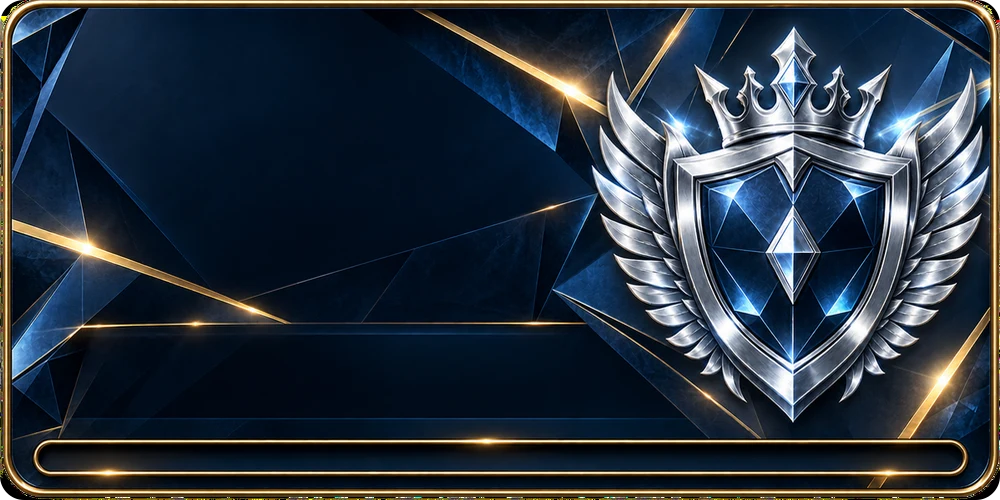
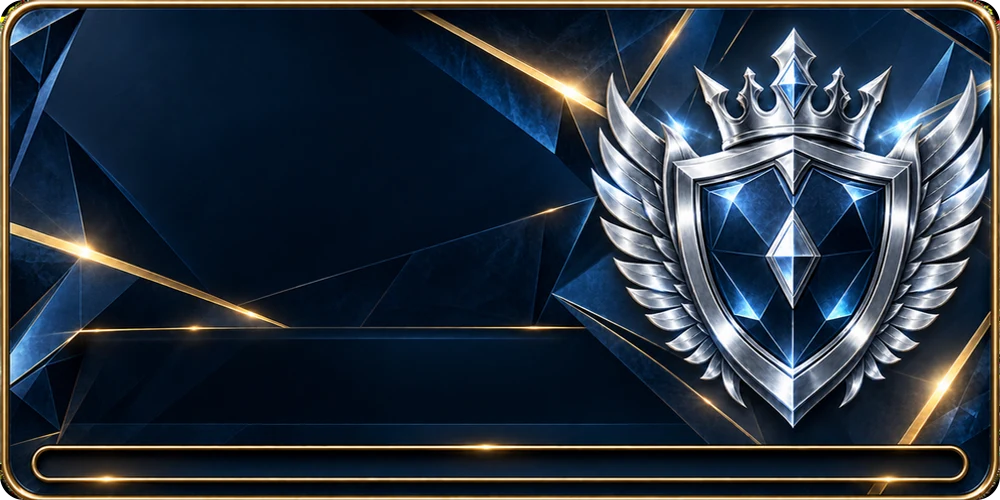
VIP carousel: stable memoised card component + image preload (no flicker on fast switching); re-fit art crops

diff --git a/app/zh-my/vip/page.tsx b/app/zh-my/vip/page.tsx
@@ -1,5 +1,5 @@
 "use client";
-import { useState } from "react";
+import { memo, useEffect, useState } from "react";
 import { Crown, ChevronLeft, ChevronRight, Wallet, TrendingUp, Gem, ArrowDownUp, Banknote, Percent, Sparkles } from "lucide-react";
 import { VIP_LEVELS } from "@/lib/mock/vip";
 import { Seg } from "@/components/ui/bo";
@@ -36,31 +36,32 @@ function HeaderDeco({ children }: { children: React.ReactNode }) {
   );
 }
 
+const LevelCard = memo(function LevelCard({ i, big }: { i: number; big?: boolean }) {
+  const l = VIP_LEVELS[(i + VIP_LEVELS.length) % VIP_LEVELS.length];
+  const n = ((i % VIP_LEVELS.length) + VIP_LEVELS.length) % VIP_LEVELS.length;
+  return (
+    <div className={`relative flex-shrink-0 ${big ? "vip-big" : "vip-side"}`} style={{
+      aspectRatio: "2 / 1", containerType: "inline-size",
+      opacity: big ? 1 : 0.55,
+    }}>
+      {/* eslint-disable-next-line @next/next/no-img-element */}
+      <img src={`/vip/vip-${n + 1}.webp`} alt="" draggable={false} onError={e => { e.currentTarget.parentElement!.style.background = `linear-gradient(135deg, ${LEVEL_TINTS[n]}, #0f1225)`; e.currentTarget.parentElement!.style.borderRadius = "12px"; e.currentTarget.style.display = "none"; }} style={{ position: "absolute", inset: 0, width: "100%", height: "100%", pointerEvents: "none" }} />
+      <span style={{ position: "absolute", left: "7%", top: "10%", fontSize: "7cqw", fontWeight: 800, fontStyle: "italic", textShadow: "0 2px 6px rgba(0,0,0,.7)" }}>{l.name}</span>
+      <div className="flex" style={{ position: "absolute", left: "7%", top: "56%", gap: "6cqw", textShadow: "0 1px 4px rgba(0,0,0,.8)" }}>
+        <div><div style={{ fontSize: "5cqw", fontWeight: 700 }}>0 / {short(l.turnoverReq)}</div><div style={{ fontSize: "4cqw" }}>流水要求</div></div>
+        <div><div style={{ fontSize: "5cqw", fontWeight: 700 }}>0 / {short(l.depositReq)}</div><div style={{ fontSize: "4cqw" }}>存款要求</div></div>
+      </div>
+    </div>
+  );
+});
+
 export default function VipPage() {
   const { user } = useAuth();
   const [idx, setIdx] = useState(0);
+  useEffect(() => { for (let n = 1; n <= VIP_LEVELS.length; n++) { const im = new Image(); im.src = `/vip/vip-${n}.webp`; } }, []);
   const [tab, setTab] = useState<"rebate" | "limit">("rebate");
   const lv = VIP_LEVELS[idx];
   const cur = user?.vipLevel ?? "PREMIUM";
-
-  const LevelCard = ({ i, big }: { i: number; big?: boolean }) => {
-    const l = VIP_LEVELS[(i + VIP_LEVELS.length) % VIP_LEVELS.length];
-    const n = ((i % VIP_LEVELS.length) + VIP_LEVELS.length) % VIP_LEVELS.length;
-    return (
-      <div className={`relative flex-shrink-0 ${big ? "vip-big" : "vip-side"}`} style={{
-        aspectRatio: "2 / 1", containerType: "inline-size",
-        opacity: big ? 1 : 0.55,
-      }}>
-        {/* eslint-disable-next-line @next/next/no-img-element */}
-        <img src={`/vip/vip-${n + 1}.webp`} alt="" draggable={false} onError={e => { e.currentTarget.parentElement!.style.background = `linear-gradient(135deg, ${LEVEL_TINTS[n]}, #0f1225)`; e.currentTarget.parentElement!.style.borderRadius = "12px"; e.currentTarget.style.display = "none"; }} style={{ position: "absolute", inset: 0, width: "100%", height: "100%", pointerEvents: "none" }} />
-        <span style={{ position: "absolute", left: "7%", top: "10%", fontSize: "7cqw", fontWeight: 800, fontStyle: "italic", textShadow: "0 2px 6px rgba(0,0,0,.7)" }}>{l.name}</span>
-        <div className="flex" style={{ position: "absolute", left: "7%", top: "56%", gap: "6cqw", textShadow: "0 1px 4px rgba(0,0,0,.8)" }}>
-          <div><div style={{ fontSize: "5cqw", fontWeight: 700 }}>0 / {short(l.turnoverReq)}</div><div style={{ fontSize: "4cqw" }}>流水要求</div></div>
-          <div><div style={{ fontSize: "5cqw", fontWeight: 700 }}>0 / {short(l.depositReq)}</div><div style={{ fontSize: "4cqw" }}>存款要求</div></div>
-        </div>
-      </div>
-    );
-  };
 
   const Stat = ({ Icon, v, l }: { Icon: React.ElementType; v: string; l: string }) => (
     <div className="flex items-center" style={{ background: "var(--card)", borderRadius: 12, padding: 8, gap: 8 }}>
